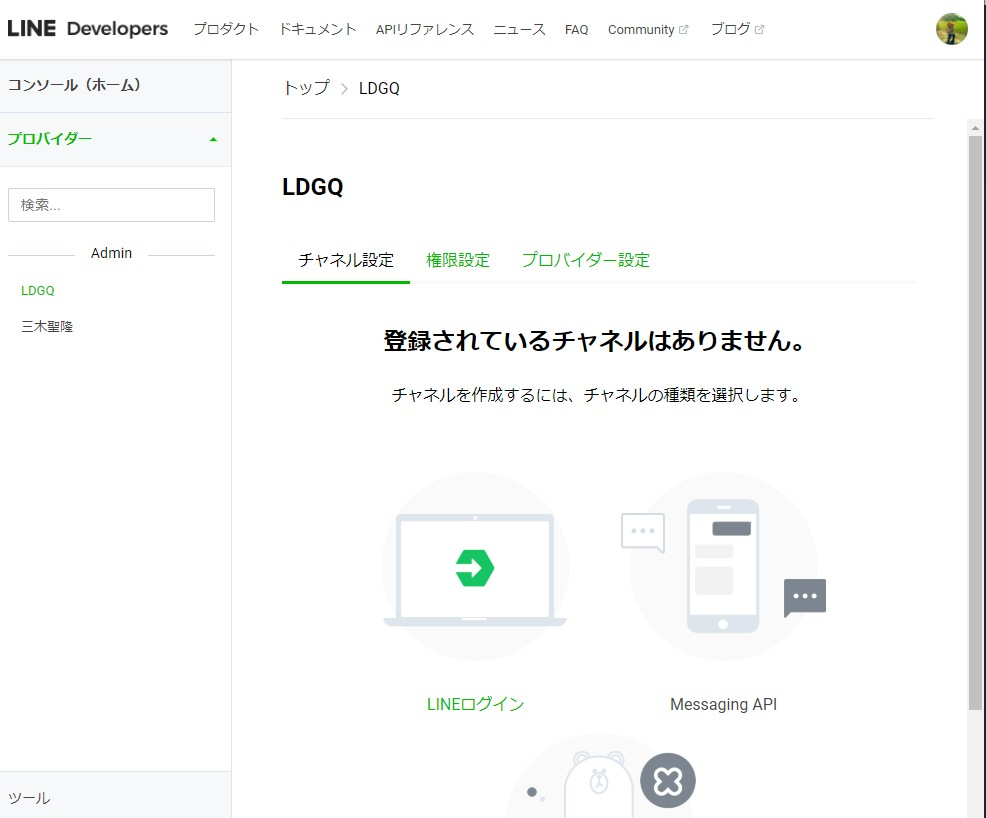
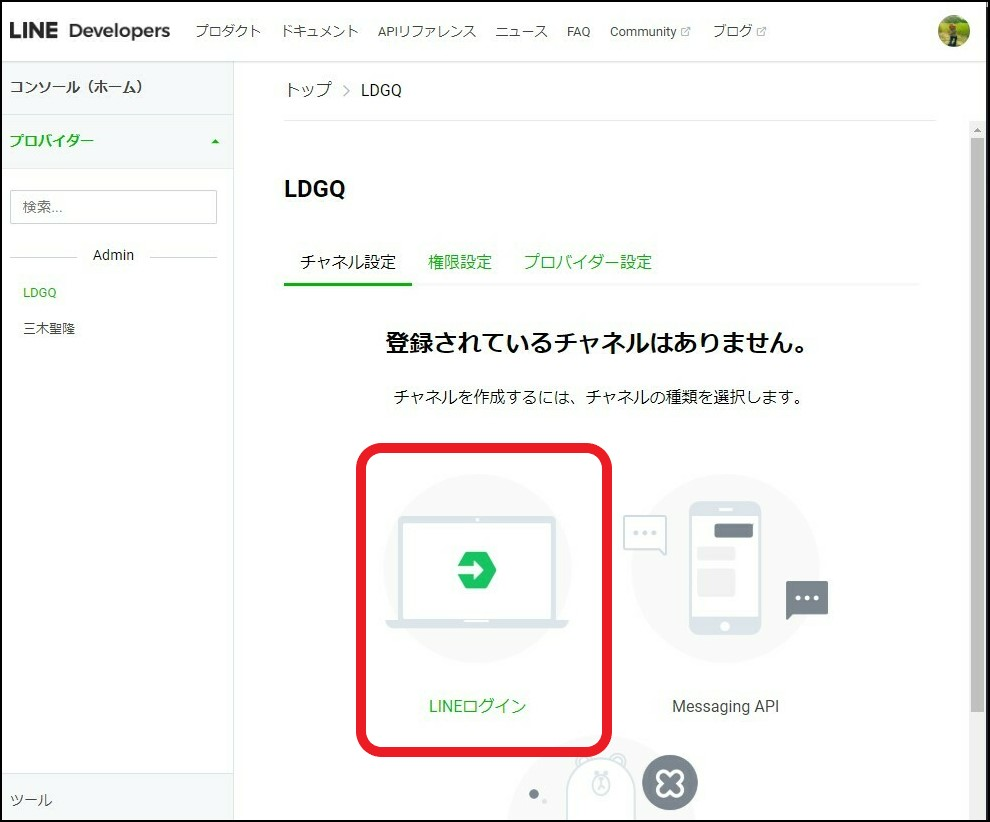
editing step3

diff --git a/liff_drawing_scenario/step3.md b/liff_drawing_scenario/step3.md
@@ -6,5 +6,19 @@
 2. プロバイダーを作成または既存のプロバイダーを選択します
 ![create_provider](https://raw.githubusercontent.com/MasatakaMiki/katacoda-scenarios/master/liff_drawing_scenario/img/s0301_create_provider.jpg)
 
-3.チャネルを作成します。<font color="red">この時、必ずLINEログインを選択してください。</font>
+3. チャネルを作成します。<font color="red">この時、必ずLINEログインを選択してください。</font>
 ![create_channel](https://raw.githubusercontent.com/MasatakaMiki/katacoda-scenarios/master/liff_drawing_scenario/img/s0302_create_channel.jpg)
+
+4. 各項目を埋めていきます
+
+|項目|値|
+|:--|:--|
+|①チャネル名|LDGQ-LIFF-Handson|
+|②チャネル説明|LDGQ-LIFF-Handson|
+|③アプリタイプ|チェックを2つ入れる|
+|④メールアドレス|ご自身のメールアドレスを入力|
+|⑤同意|チェックを入れる|
+
+![channel_setting](https://raw.githubusercontent.com/MasatakaMiki/katacoda-scenarios/master/liff_drawing_scenario/img/s0303_channel_setting.jpg)
+
+![channel_setting](https://raw.githubusercontent.com/MasatakaMiki/katacoda-scenarios/master/liff_drawing_scenario/img/s0304_channel_setting.jpg)
